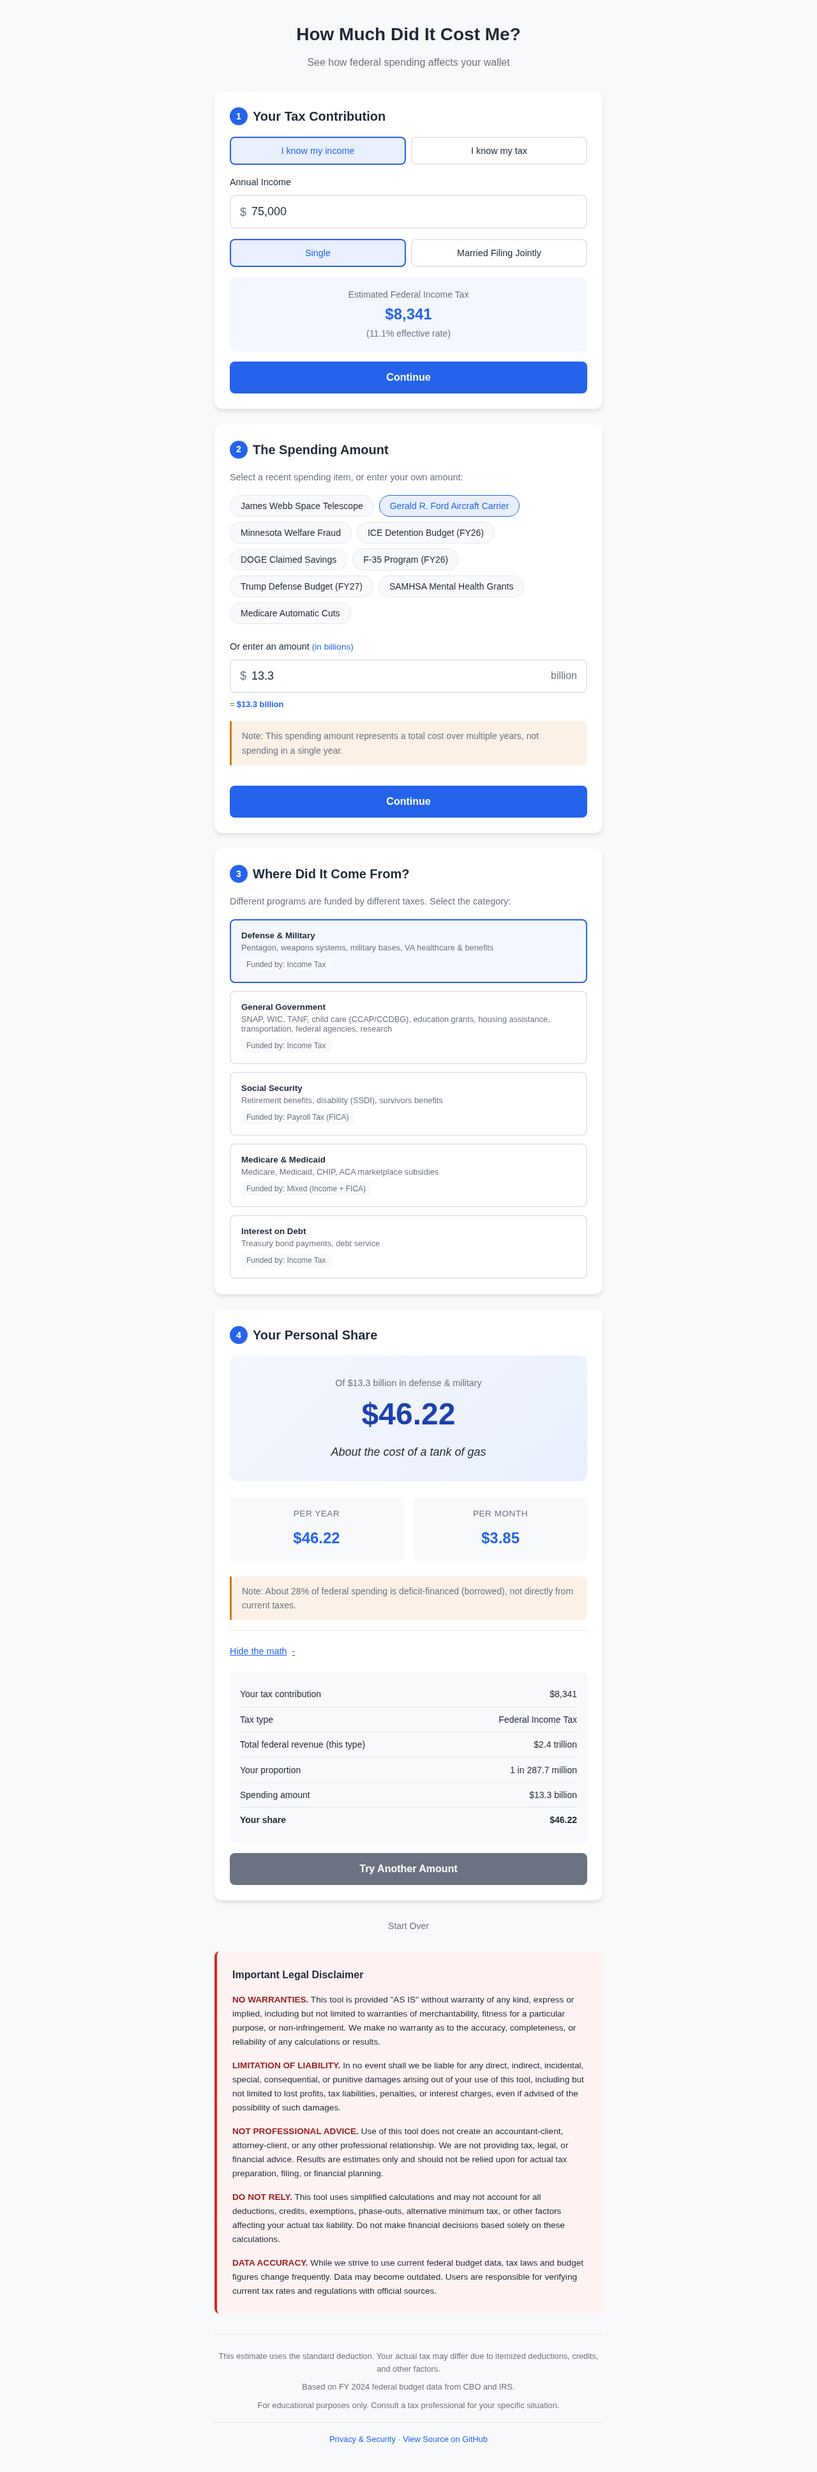
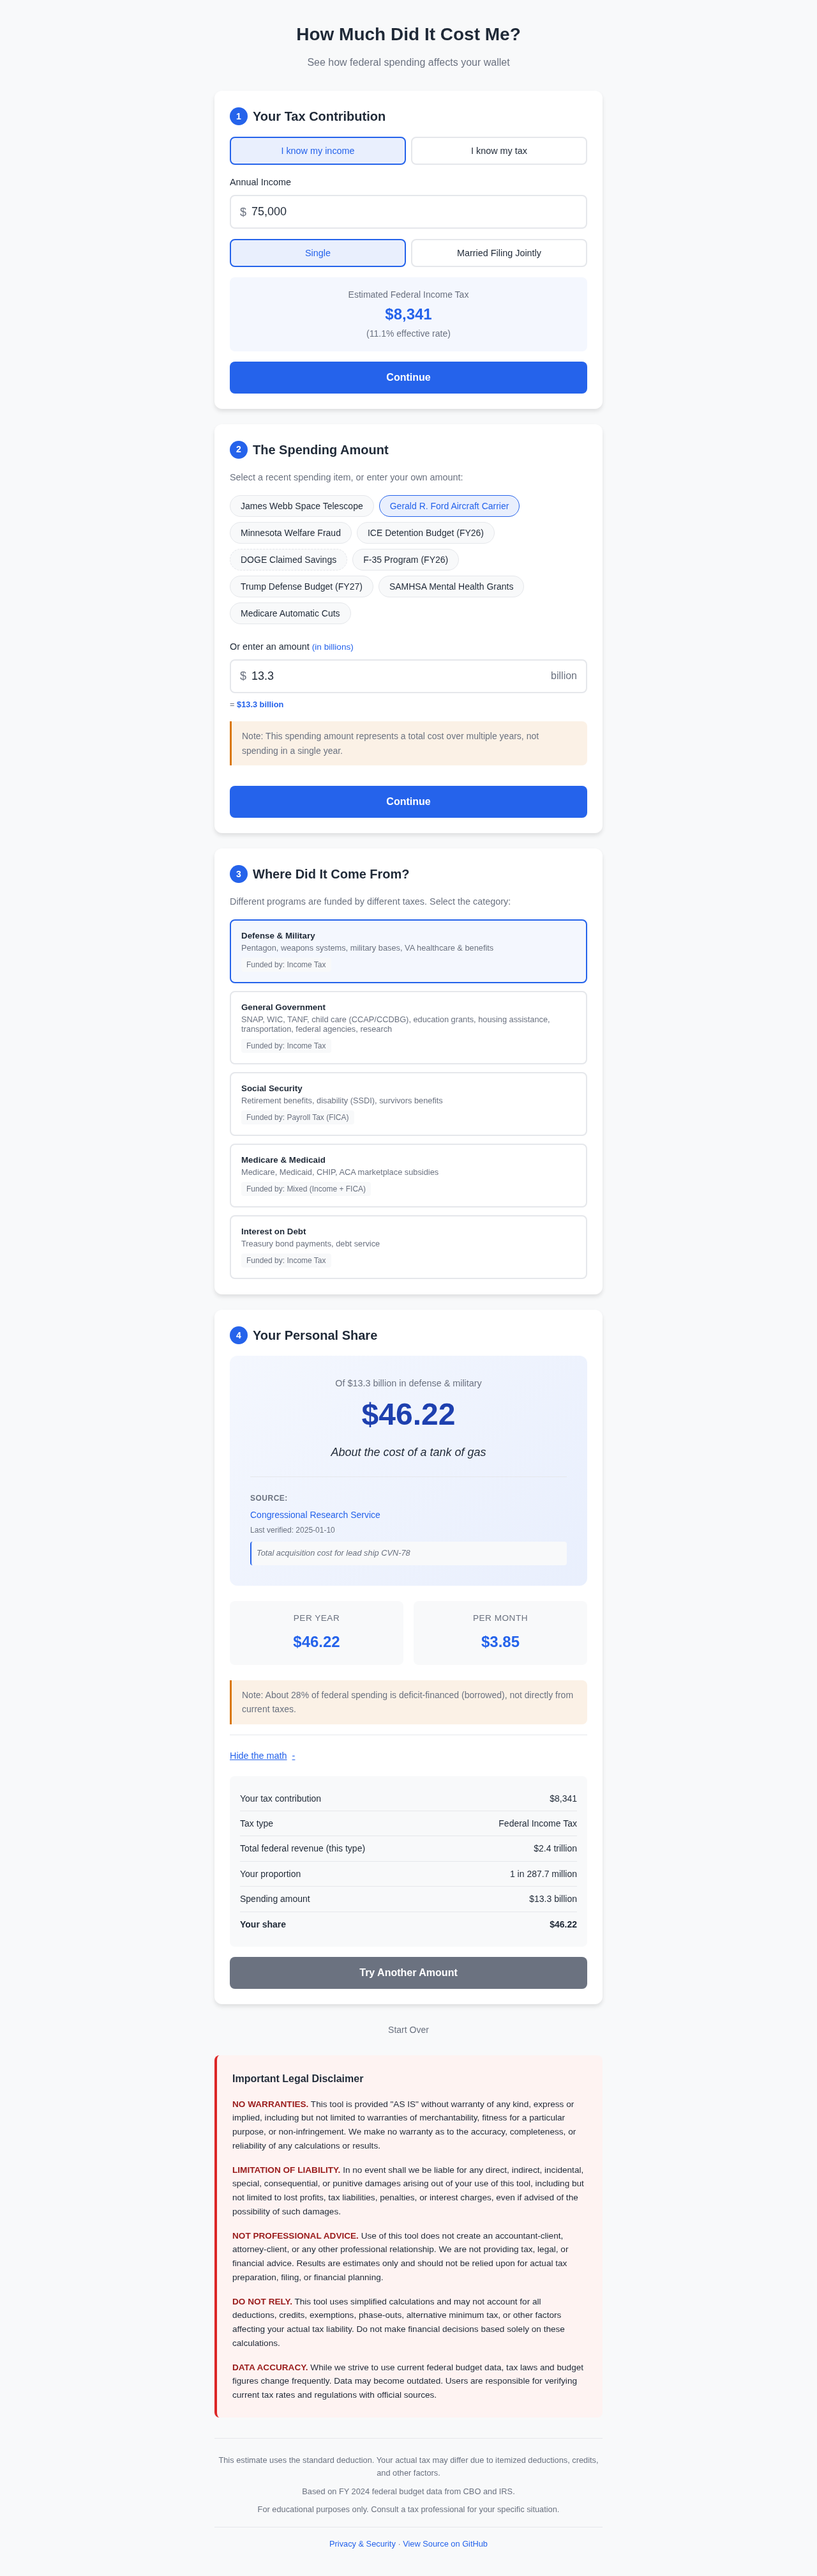
Add source annotations to spending items (#48)
* Add source annotations to spending items

Display data sources for weekly trending spending figures throughout the UI:
- Chips show source and verification date on hover (browser tooltip)
- Results page displays full source info with notes when item is selected
- Source info automatically updates when weekly workflow adds new data
- Manual spending entries correctly show no source information

* Add clickable URLs to source annotations

- Add sourceUrl field to all spending items (permanent and trending)
- Display sources as clickable links in results page when URL available
- Include URLs in chip hover tooltips
- Style links with subtle underline on hover
- Update weekly workflow to require URLs for new trending items

---------

diff --git a/js/app.js b/js/app.js
@@ -43,7 +43,8 @@ const app = {
     spendingAmount: 0,
     category: null,
     isMultiYear: false, // tracks if selected spending is multi-year
-    isSavings: false    // tracks if selected item is a savings (vs spending)
+    isSavings: false,   // tracks if selected item is a savings (vs spending)
+    selectedItemSource: null // tracks source info for selected item
   },
 
   // Initialize the app
@@ -214,9 +215,10 @@ const app = {
     const actualAmount = billions * 1_000_000_000;
     this.state.spendingAmount = actualAmount;
 
-    // Manual input is not multi-year and not savings
+    // Manual input is not multi-year, not savings, and has no source
     this.state.isMultiYear = false;
     this.state.isSavings = false;
+    this.state.selectedItemSource = null;
     document.getElementById('multiYearNote').style.display = 'none';
 
     // Update the hint to show the full dollar amount
@@ -276,25 +278,49 @@ const app = {
 
     container.innerHTML = '';
     EXAMPLE_AMOUNTS.forEach((item, index) => {
+      // Find the corresponding entry in NOTABLE_SPENDING to get source info
+      let sourceInfo = null;
+      for (const key in NOTABLE_SPENDING) {
+        if (NOTABLE_SPENDING[key].label === item.label) {
+          sourceInfo = NOTABLE_SPENDING[key];
+          break;
+        }
+      }
+
       const btn = document.createElement('button');
       btn.type = 'button';
       btn.className = item.isSavings ? 'chip savings' : 'chip';
       btn.dataset.index = index;
       btn.dataset.value = item.value;
       btn.dataset.savings = item.isSavings ? 'true' : 'false';
+
+      // Add source information as data attribute and tooltip
+      if (sourceInfo) {
+        btn.dataset.source = sourceInfo.source;
+        btn.dataset.lastVerified = sourceInfo.lastVerified;
+        btn.dataset.notes = sourceInfo.notes || '';
+        btn.dataset.sourceUrl = sourceInfo.sourceUrl || '';
+        let tooltip = `Source: ${sourceInfo.source}\nLast verified: ${sourceInfo.lastVerified}`;
+        if (sourceInfo.sourceUrl) {
+          tooltip += `\nURL: ${sourceInfo.sourceUrl}`;
+        }
+        btn.title = tooltip;
+      }
+
       btn.textContent = item.label;
-      btn.onclick = () => this.selectChip(index, item.value, item.category || null, item.multiYear || false, item.isSavings || false);
+      btn.onclick = () => this.selectChip(index, item.value, item.category || null, item.multiYear || false, item.isSavings || false, sourceInfo);
       container.appendChild(btn);
     });
   },
 
   // Select a chip and highlight it
-  selectChip(index, amount, category, multiYear = false, isSavings = false) {
+  selectChip(index, amount, category, multiYear = false, isSavings = false, sourceInfo = null) {
     // Update visual selection
     document.querySelectorAll('#spendingChips .chip').forEach(chip => {
       chip.classList.toggle('selected', chip.dataset.index === String(index));
     });
     this.state.selectedChipIndex = index;
+    this.state.selectedItemSource = sourceInfo;
 
     // Set the spending amount
     this.setSpending(amount, category, multiYear, isSavings);
@@ -349,6 +375,24 @@ const app = {
       document.getElementById('resultCategory').textContent = result.category.toLowerCase();
     }
     document.getElementById('resultShare').textContent = formatCurrency(result.yourShare);
+
+    // Update source information if available
+    const sourceEl = document.getElementById('resultSource');
+    if (this.state.selectedItemSource && this.state.selectedItemSource.source) {
+      const sourceText = this.state.selectedItemSource.sourceUrl
+        ? `<a href="${this.state.selectedItemSource.sourceUrl}" target="_blank" rel="noopener noreferrer">${this.state.selectedItemSource.source}</a>`
+        : this.state.selectedItemSource.source;
+
+      sourceEl.innerHTML = `
+        <div class="source-label">Source:</div>
+        <div class="source-text">${sourceText}</div>
+        <div class="source-verified">Last verified: ${this.state.selectedItemSource.lastVerified}</div>
+        ${this.state.selectedItemSource.notes ? `<div class="source-notes">${this.state.selectedItemSource.notes}</div>` : ''}
+      `;
+      sourceEl.style.display = 'block';
+    } else {
+      sourceEl.style.display = 'none';
+    }
 
     // Get comparison
     const annualTax = this.state.incomeTax + this.state.ficaTax;
@@ -432,7 +476,8 @@ const app = {
       spendingAmount: 0,
       category: null,
       isMultiYear: false,
-      isSavings: false
+      isSavings: false,
+      selectedItemSource: null
     };
 
     // Reset UI

diff --git a/js/data.js b/js/data.js
@@ -132,6 +132,7 @@ const PERMANENT_SPENDING = {
     label: 'Gerald R. Ford Aircraft Carrier',
     value: 13_300_000_000,           // $13.3 billion (USS Gerald R. Ford total program cost)
     source: 'Congressional Research Service',
+    sourceUrl: 'https://crsreports.congress.gov/product/pdf/RS/RS20643',
     lastVerified: DATA_LAST_UPDATED,
     category: 'defense',
     notes: 'Total acquisition cost for lead ship CVN-78',
@@ -141,6 +142,7 @@ const PERMANENT_SPENDING = {
     label: 'James Webb Space Telescope',
     value: 10_000_000_000,           // $10 billion (total development cost)
     source: 'NASA',
+    sourceUrl: 'https://www.nasa.gov/mission_pages/webb/about/index.html',
     lastVerified: DATA_LAST_UPDATED,
     category: 'general',
     notes: 'Total lifecycle development cost',
@@ -156,6 +158,7 @@ const TRENDING_SPENDING = {
     label: 'Minnesota Welfare Fraud',
     value: 9_000_000_000,            // $9 billion (federal prosecutors estimate)
     source: 'U.S. Department of Treasury',
+    sourceUrl: 'https://www.treasury.gov/',
     lastVerified: '2026-01-15',
     category: 'general',
     notes: 'Estimated fraud across multiple MN social programs - Gov. Walz dropped reelection bid over scandal'
@@ -164,6 +167,7 @@ const TRENDING_SPENDING = {
     label: 'ICE Detention Budget (FY26)',
     value: 30_000_000_000,           // $30 billion (tripled from previous year)
     source: 'DHS Budget / Brennan Center',
+    sourceUrl: 'https://www.brennancenter.org/',
     lastVerified: '2026-01-15',
     category: 'general',
     notes: 'ICE budget tripled to $30B - massive expansion of immigration detention controversial'
@@ -172,6 +176,7 @@ const TRENDING_SPENDING = {
     label: 'DOGE Claimed Savings',
     value: 214_000_000_000,          // $214 billion (official DOGE claims)
     source: 'DOGE.gov / Partnership for Public Service',
+    sourceUrl: 'https://www.doge.gov/',
     lastVerified: '2026-01-15',
     category: 'general',
     notes: 'DOGE claims $214B saved but analysis says actions may have cost taxpayers $135B',
@@ -181,6 +186,7 @@ const TRENDING_SPENDING = {
     label: 'F-35 Program (FY26)',
     value: 10_900_000_000,           // $10.9 billion (FY2026 procurement)
     source: 'GAO / Department of Defense',
+    sourceUrl: 'https://www.gao.gov/products/gao-24-106458',
     lastVerified: '2026-01-15',
     category: 'defense',
     notes: 'F-35 total lifecycle now exceeds $2 trillion - 80% over budget, 10 years late'
@@ -189,6 +195,7 @@ const TRENDING_SPENDING = {
     label: 'Trump Defense Budget (FY27)',
     value: 1_500_000_000_000,        // $1.5 trillion (proposed FY2027)
     source: 'White House / Committee for Responsible Federal Budget',
+    sourceUrl: 'https://www.crfb.org/',
     lastVerified: '2026-01-15',
     category: 'defense',
     notes: 'Trump proposes 50% increase to $1.5T - would add $5.8T to debt over decade'
@@ -197,6 +204,7 @@ const TRENDING_SPENDING = {
     label: 'SAMHSA Mental Health Grants',
     value: 2_000_000_000,            // $2 billion (cut then reversed)
     source: 'HHS / NPR',
+    sourceUrl: 'https://www.samhsa.gov/',
     lastVerified: '2026-01-15',
     category: 'medicare',
     notes: 'Administration cut $2B in mental health/addiction grants, reversed within 24 hours after backlash'
@@ -205,6 +213,7 @@ const TRENDING_SPENDING = {
     label: 'Medicare Automatic Cuts',
     value: 536_000_000_000,          // $536 billion (over 10 years due to PAYGO)
     source: 'Congressional Budget Office',
+    sourceUrl: 'https://www.cbo.gov/',
     lastVerified: '2026-01-15',
     category: 'medicare',
     notes: 'CBO: Big Beautiful Bill triggers $536B Medicare cuts over decade via PAYGO rules'

diff --git a/css/styles.css b/css/styles.css
@@ -269,6 +269,7 @@ header p {
   font-size: 0.875rem;
   transition: all 0.2s;
   color: var(--color-text);
+  position: relative;
 }
 
 .chip:hover {
@@ -301,6 +302,11 @@ header p {
   border-color: var(--color-success);
   border-style: solid;
   color: var(--color-success);
+}
+
+/* Chip tooltips - browser native title attribute will be used */
+.chip[title] {
+  cursor: help;
 }
 
 /* Category Selector */
@@ -386,6 +392,56 @@ header p {
   color: var(--color-text);
   margin-top: 1rem;
   font-style: italic;
+}
+
+.result-source {
+  margin-top: 1.5rem;
+  padding-top: 1.5rem;
+  border-top: 1px solid var(--color-border);
+  text-align: left;
+}
+
+.source-label {
+  font-size: 0.75rem;
+  font-weight: 600;
+  text-transform: uppercase;
+  letter-spacing: 0.5px;
+  color: var(--color-text-muted);
+  margin-bottom: 0.25rem;
+}
+
+.source-text {
+  font-size: 0.875rem;
+  color: var(--color-text);
+  font-weight: 500;
+}
+
+.source-text a {
+  color: var(--color-primary);
+  text-decoration: none;
+  border-bottom: 1px solid transparent;
+  transition: border-color 0.2s;
+}
+
+.source-text a:hover {
+  border-bottom-color: var(--color-primary);
+}
+
+.source-verified {
+  font-size: 0.75rem;
+  color: var(--color-text-muted);
+  margin-top: 0.25rem;
+}
+
+.source-notes {
+  font-size: 0.8rem;
+  color: var(--color-text-muted);
+  margin-top: 0.5rem;
+  font-style: italic;
+  padding: 0.5rem;
+  background: var(--color-bg);
+  border-radius: 4px;
+  border-left: 2px solid var(--color-primary);
 }
 
 /* Time Breakdown */

diff --git a/index.html b/index.html
@@ -152,6 +152,7 @@
         </div>
         <div class="result-amount" id="resultShare">$0.00</div>
         <div class="result-comparison" id="resultComparison"></div>
+        <div id="resultSource" class="result-source" style="display: none;"></div>
       </div>
 
       <div class="time-breakdown">
